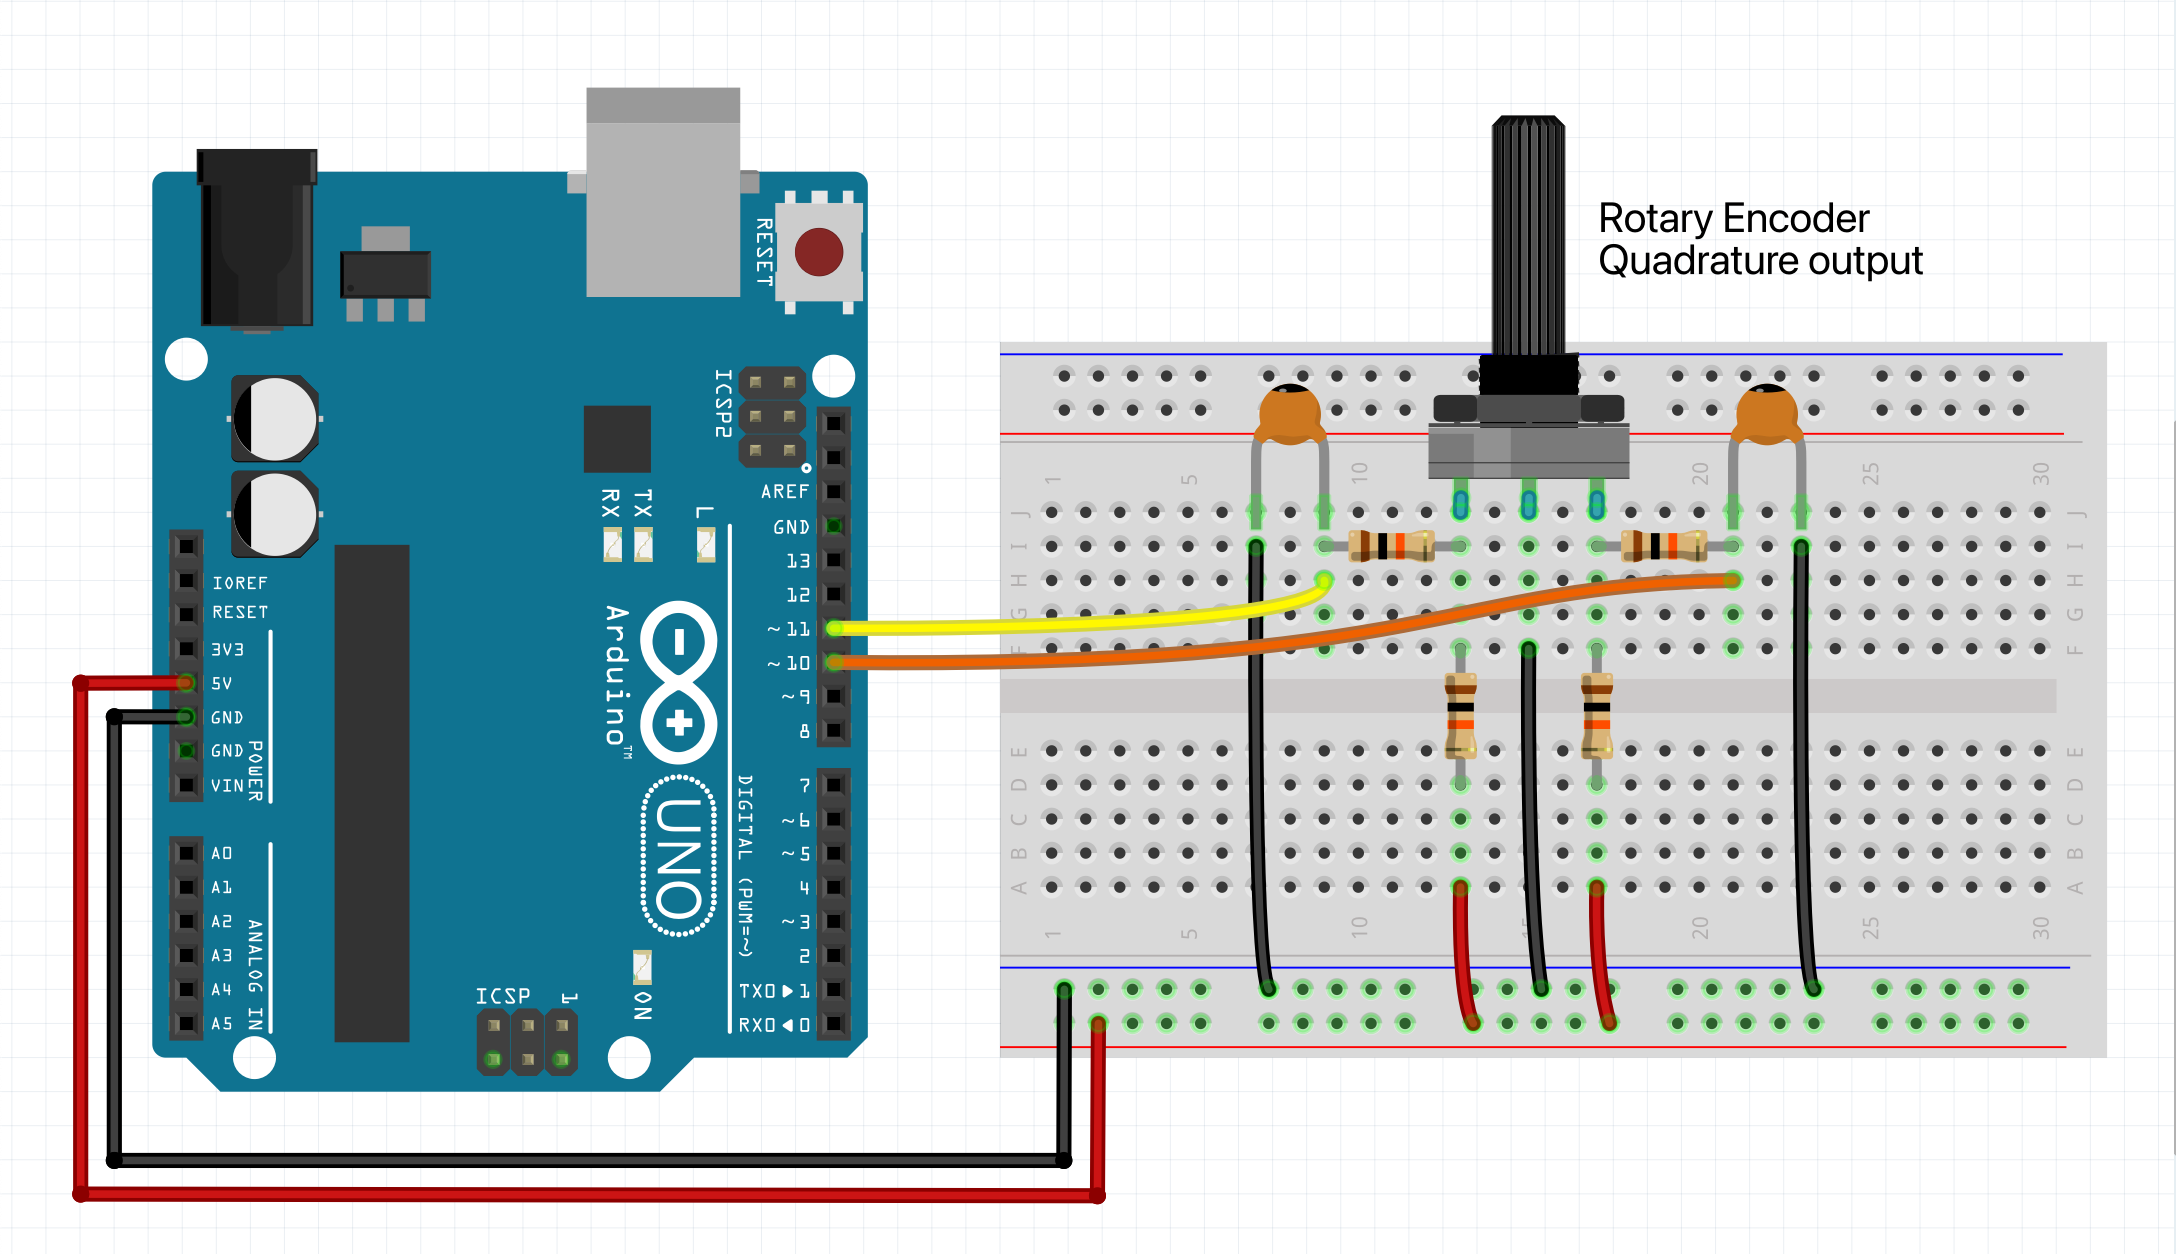
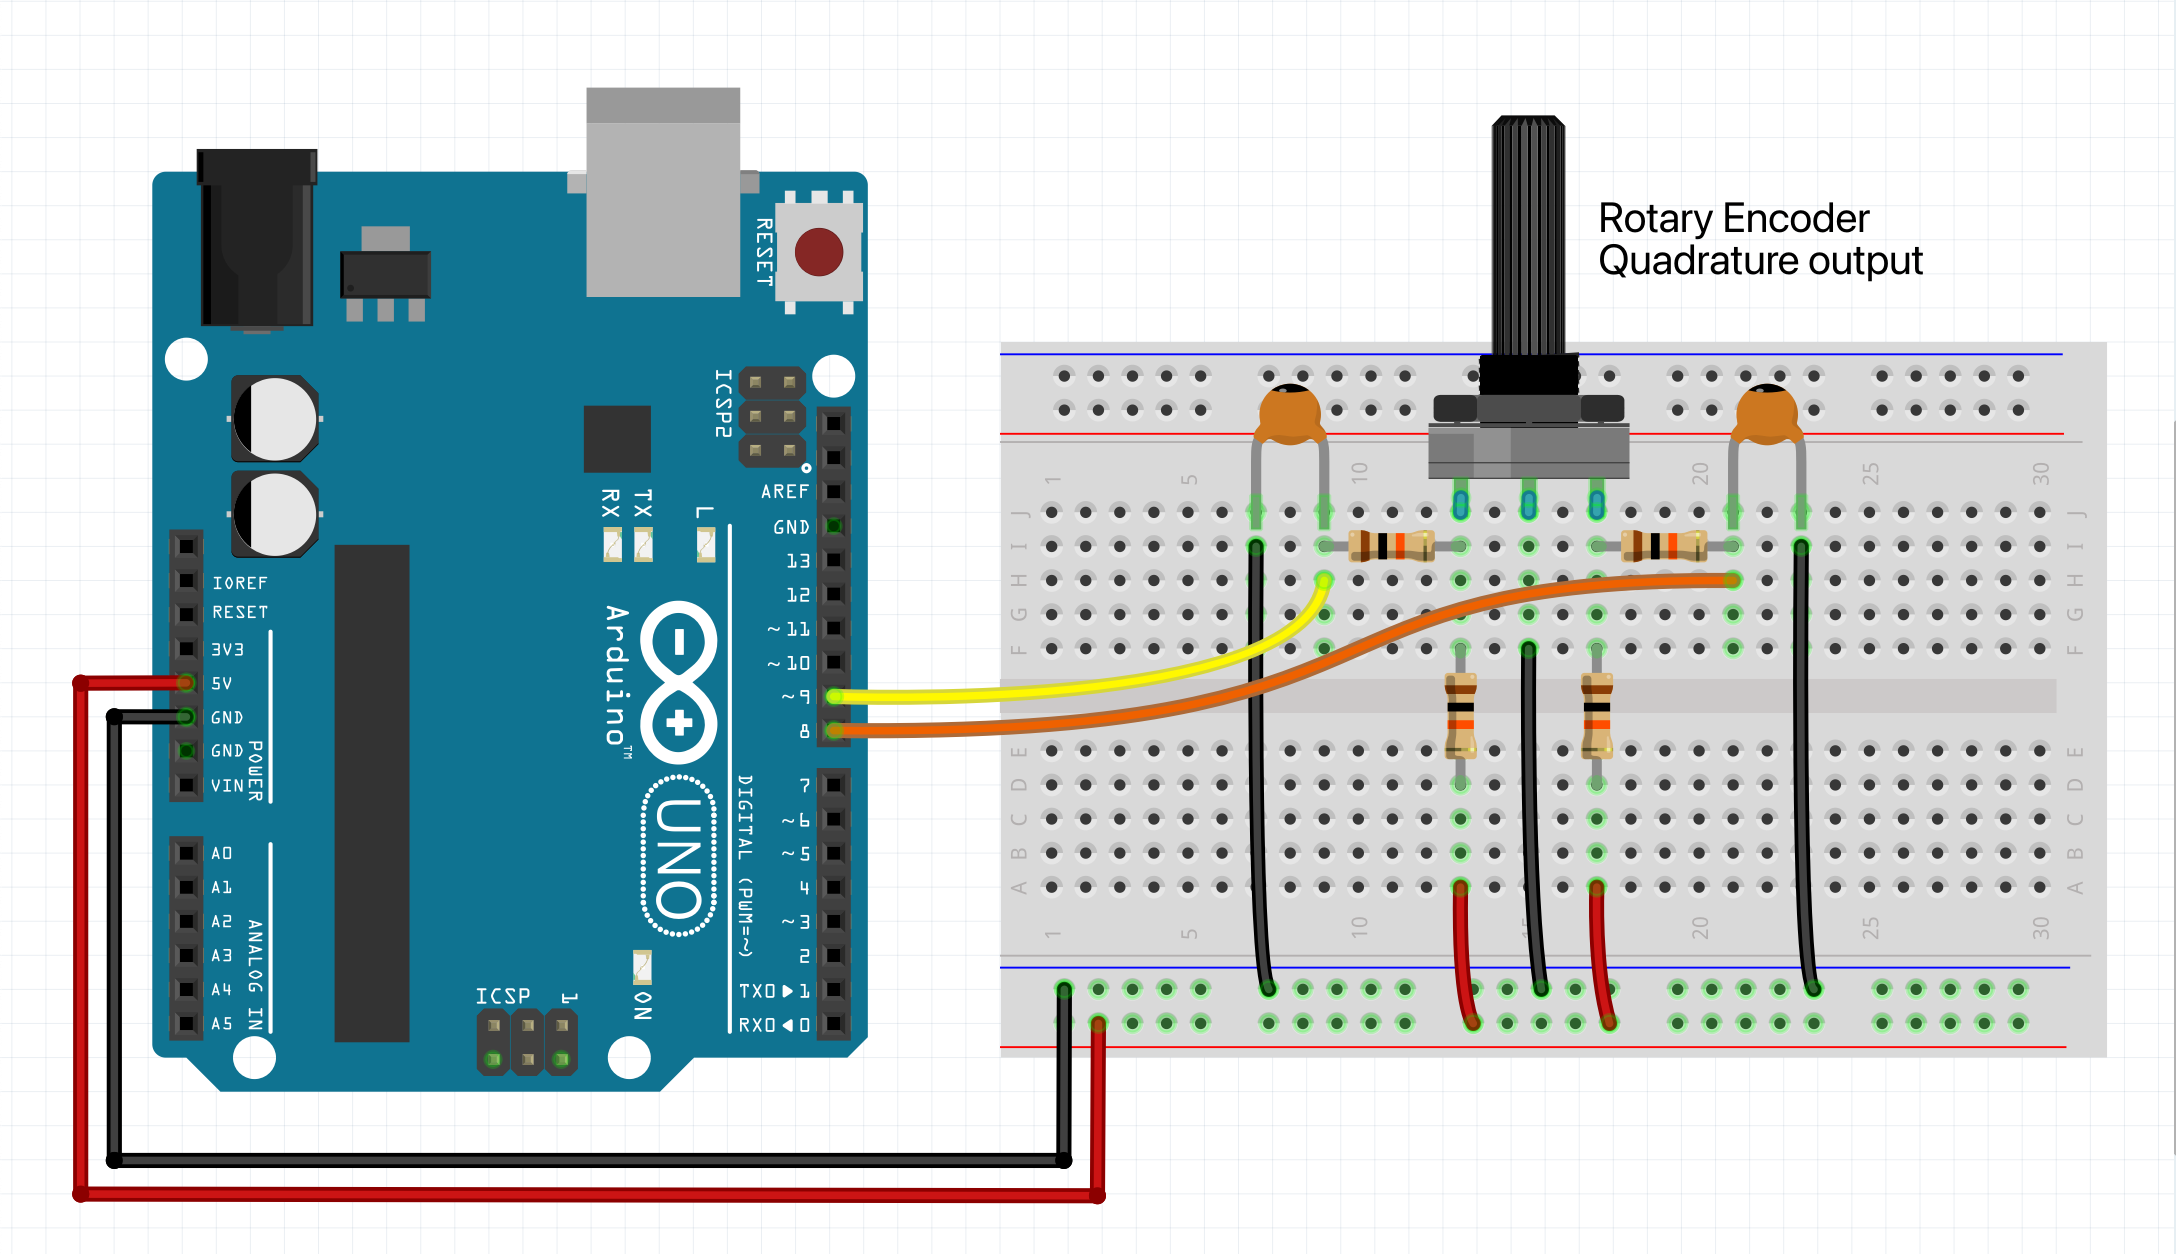
Hook up guide tweaks

Changed region(s): [[0.375, 0.4665, 0.6562, 0.5909], [0.6562, 0.4354, 0.7812, 0.4976]]

diff --git a/docs/rotary_encoders.md b/docs/rotary_encoders.md
@@ -67,7 +67,7 @@ void onTurnRight() {
 
 // Create a rotary encoder with the clk signal pin number, dt signal pin, 
 // onTurnleft (optional) & onTurnRight (optional) handler.
-CtrlEnc encoder = CtrlEnc::create(11, 10, onTurnleft, onTurnRight);
+CtrlEnc encoder = CtrlEnc::create(9, 8, onTurnleft, onTurnRight);
 
 void setup() {
   Serial.begin(9600);
